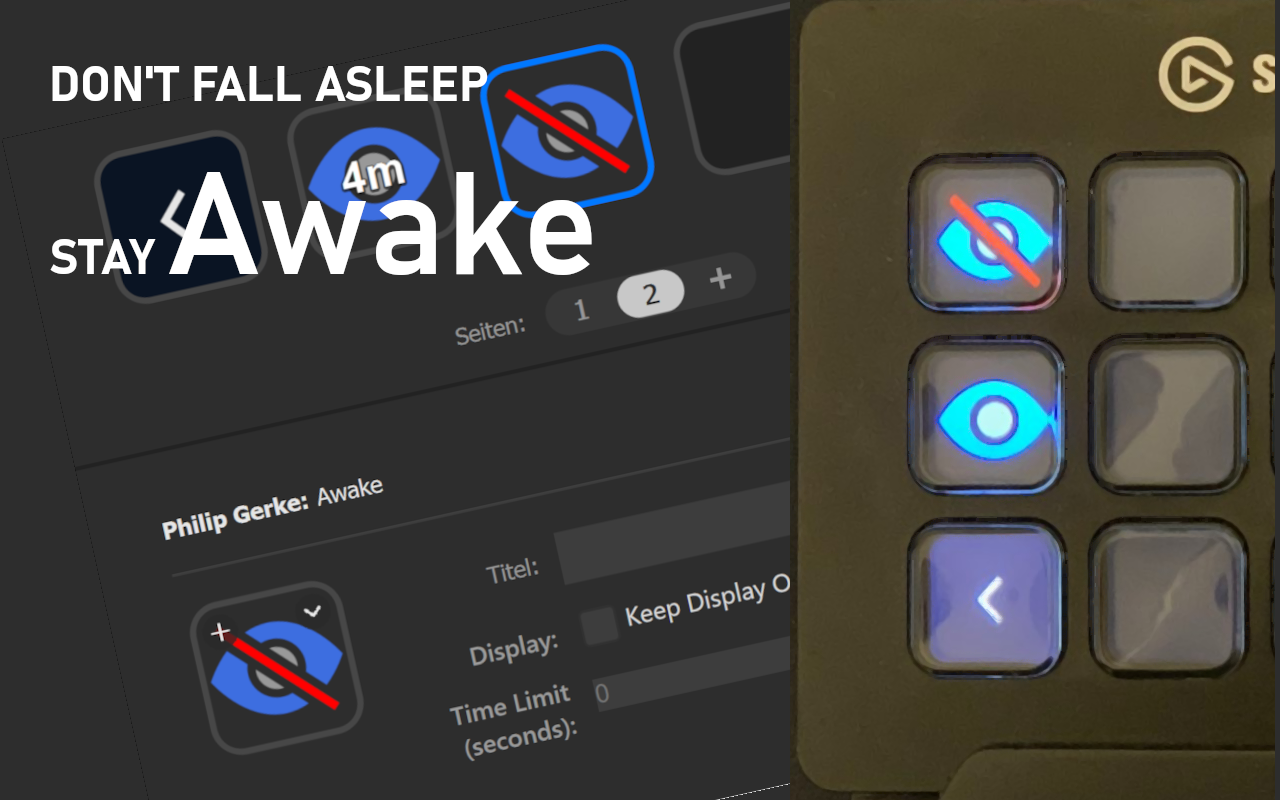
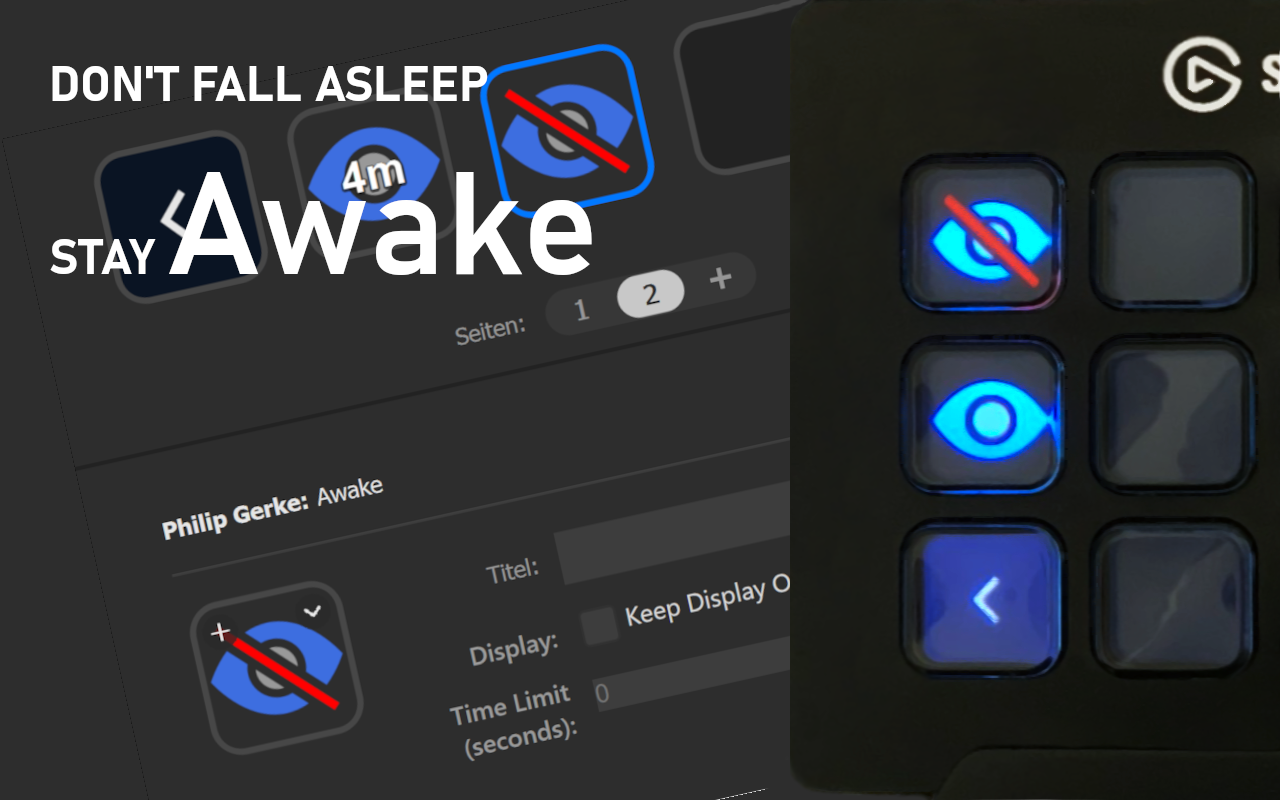
docu: Add documentation for button states
PG-127 #4

diff --git a/README.md b/README.md
@@ -8,6 +8,17 @@ A Power Toys Awake inspired plugin for the Elgato Stream Deck to prevent the PC 
 - Optionally keep the display on while Awake is active.
 - Temporary Awake: Keep your system awake for a preset time.
 
+## Legend
+
+The following button states are used:
+
+| Icon                                                          | Description                                                |
+| :------------------------------------------------------------ | :--------------------------------------------------------- |
+| ![Awake Off](StreamDeckAwake/Images/awakeOff@2x.png)          | Awake is inactive                                          |
+| ![Awake On](StreamDeckAwake/Images/awakeOn@2x.png)            | Awake is active                                            |
+| ![Timed Awake On](StreamDeckAwake/Images/awakeOnTimed@2x.png) | Awake is active with a timer (here: 3 minutes remaining)   |
+| ![Awake Unknown](StreamDeckAwake/Images/awakeUnknown@2x.png)  | Awake state is unknown. Something is wrong if you see this |
+
 ## I found a bug, what do I do?
 
 I'm happy to hear any feedback regarding the plugin or it's implementation, be it critizism, praise or rants. Please create a [GitHub issue](https://github.com/pgerke/streamdeck-awake/issues) or drop me an [email](mailto:info@philipgerke.com) if you would like to contact me.
